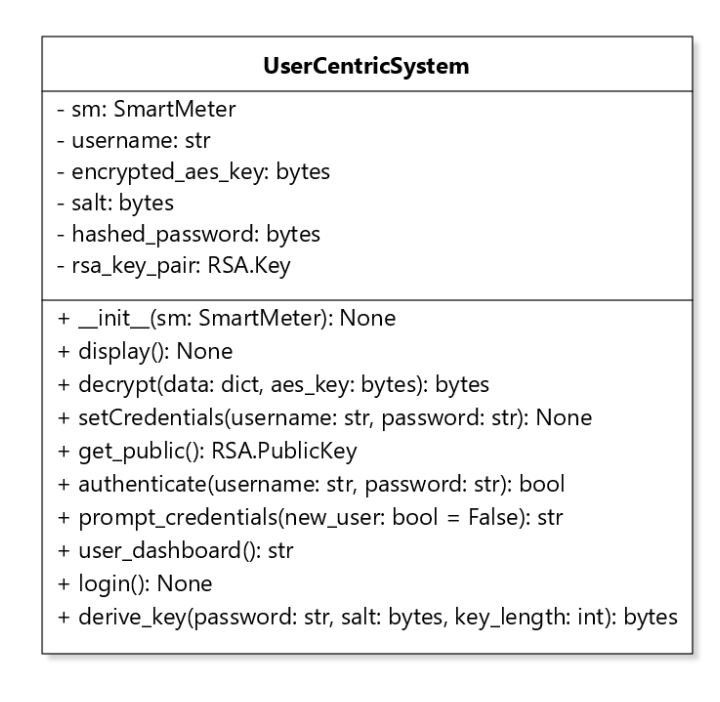
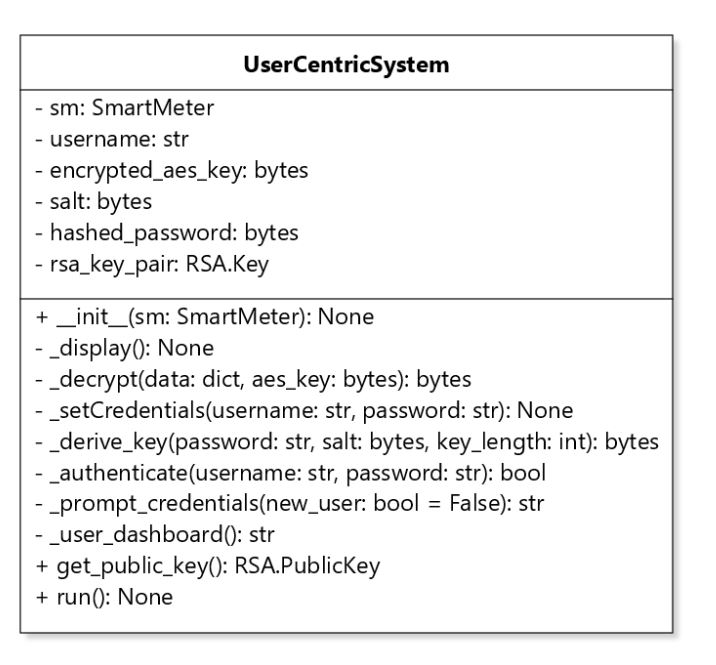
updated the UCS section to reflect the private/public methods

Changed region(s): [[0.0, 0.0301, 0.9832, 0.9624]]

diff --git a/m5/Prototype.md b/m5/Prototype.md
@@ -181,7 +181,7 @@ Within the app.js file, there are multiple functions that query data from the da
 
 
 ### 3.5 User Centric System
-One of our main requirements was the ability for customers to have secure access to their own energy consumption data. This aspect of our system is achieved through the user_centric_system.py class which is accessible within the folder src and referred to in the following sections. 
+One of our main requirements was the ability for customers to have secure access to their own energy consumption data. This aspect of our system is achieved through the `user_centric_system.py` class which is accessible within the folder `src` and referred to in the following sections. 
 
 <p align="center">
   <img src="images/user-centric-system-class.JPG" width=500px />
@@ -201,17 +201,19 @@ The UML diagram for the UserCentricSystem class provides a representation of its
 
 **Public Methods:**
 - `__init__(sm: SmartMeter):` Initializes the user instance, mainly through associating an inputted smart meter with a user. 
-- `display():` Decrypts the smart meters data with the help of the decrypt function and displays a graph to the user. 
-- `decrypt(data: dict, aes_key: bytes):` Generates a new AES object and decrypts the inputted data with the inputted key. 
-- `setCredentials(username: str, password: str)`: Ssts most of the fields of the UserCentricSystem class. This is where key pairs are generated and the hash of the password is created. 
-- `get_public():`: Returns the user’s public key. 
-- `authenticate(username: str, password: str)`: Checks whether a hash of the user’s inputted password matches that stored in our system. 
-- `prompt_credentials(new_user: bool = False)`: Determines whether an instance is a new or a returning user and runs authentication accordingly. 
-- `user_dashboard()`: Displays options for users to display their data or logout. 
-- `login()`: Function that runs the entire system and initiates prompting for credentials and running the user dashboard. 
-- `derive_key(password: str, salt: bytes, key_length: int)`: Generates a random hash of the user’s password using a random salt and SHA-256 hash. 
+- `run()`: Function that runs the entire system and initiates prompting for credentials and running the user dashboard. 
+- `get_public_key():`: Returns the user’s public key. 
 
-When a user first generates their username and password, the setCredentials function on line 40 initializes multiple values. First, the individual’s username is set and saved. Next, a random 16 byte string, referred to as the _salt_, is generated from the Crypto.Random package. Similarly, an RSA key pair is generated where the keys are each 2048 bits of length. The user’s public key is utilized to encrypt the user’s smart meter’s symmetric key. Lastly, the user’s password is hashed using the salt that was previously generated and a helper function derive_key on line 105. 
+**Private Methods:**
+- `_display():` Decrypts the smart meters data with the help of the decrypt function and displays a graph to the user. 
+- `_decrypt(data: dict, aes_key: bytes):` Generates a new AES object and decrypts the inputted data with the inputted key. 
+- `_setCredentials(username: str, password: str)`: Ssts most of the fields of the UserCentricSystem class. This is where key pairs are generated and the hash of the password is created. 
+- `_authenticate(username: str, password: str)`: Checks whether a hash of the user’s inputted password matches that stored in our system. 
+- `_prompt_credentials(new_user: bool = False)`: Determines whether an instance is a new or a returning user and runs authentication accordingly. 
+- `_user_dashboard()`: Displays options for users to display their data or logout. 
+- `_derive_key(password: str, salt: bytes, key_length: int)`: Generates a random hash of the user’s password using a random salt and SHA-256 hash. 
+
+When a user first generates their username and password, the `_setCredentials` function on line 40 initializes multiple values. First, the individual’s username is set and saved. Next, a random 16 byte string, referred to as the _salt_, is generated from the Crypto.Random package. Similarly, an RSA key pair is generated where the keys are each 2048 bits of length. The user’s public key is utilized to encrypt the user’s smart meter’s symmetric key. Lastly, the user’s password is hashed using the salt that was previously generated and a helper function `_derive_key` on line 105. 
 
 #### 3.5.1 Hashing Passwords
 
@@ -222,7 +224,7 @@ Hashing passwords provides an additional layer of security since if a hacker wer
 #### 3.5.2 Displaying Data 
 As previously mentioned, there is a smart meter associated with every User Centric System instance. The smart meter’s encryption key can therefore be encrypted with the user’s RSA public key in order for safe transfer of the key between the two components, effectively resolving the key distribution problem. We utilize this process in our display function on line 21. The smart meter’s AES key is decrypted using the user’s private key, allowing for access of the raw consumption data. This data is then graphed using a data visualization library, Plotly.  
 
-We want to emphasize that our system ensures the secure delivery of this data and the creation of an actual interface used by customers to view this data was decided to be out of our scope. This interface will handle the specifics of display and potentially incorporate other functionalities. Our file is simply to demonstrate a simulation of the flow of the data, a basic example of a user system, and ensure that suppliers don’t need to directly observe customer data. 
+We want to emphasize that our system ensures the secure delivery of this data and the creation of an actual interface used by customers to view this data was decided to be out of our scope. This interface will handle the specifics of display and potentially incorporate other functionalities. Our implementation is meant to demonstrate a simulation of the flow of the data, a basic example of a user system, and ensure that suppliers don’t need to directly observe customer data. 
 
 
 ### 3.6 UI
